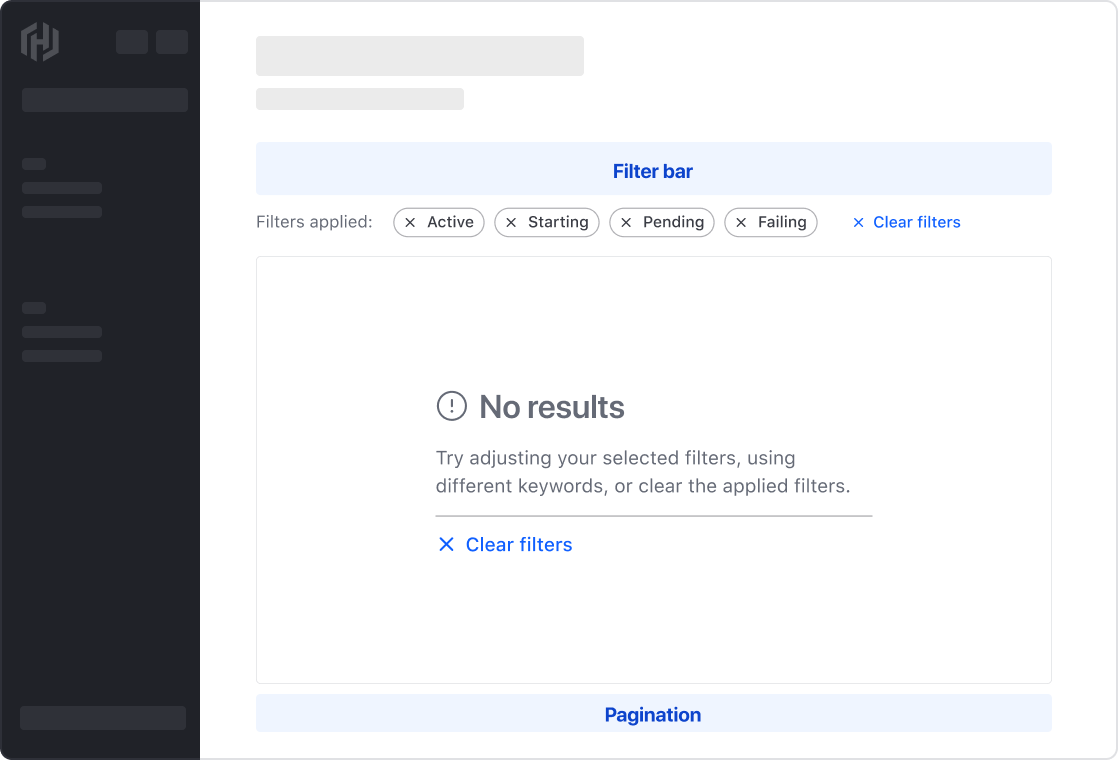
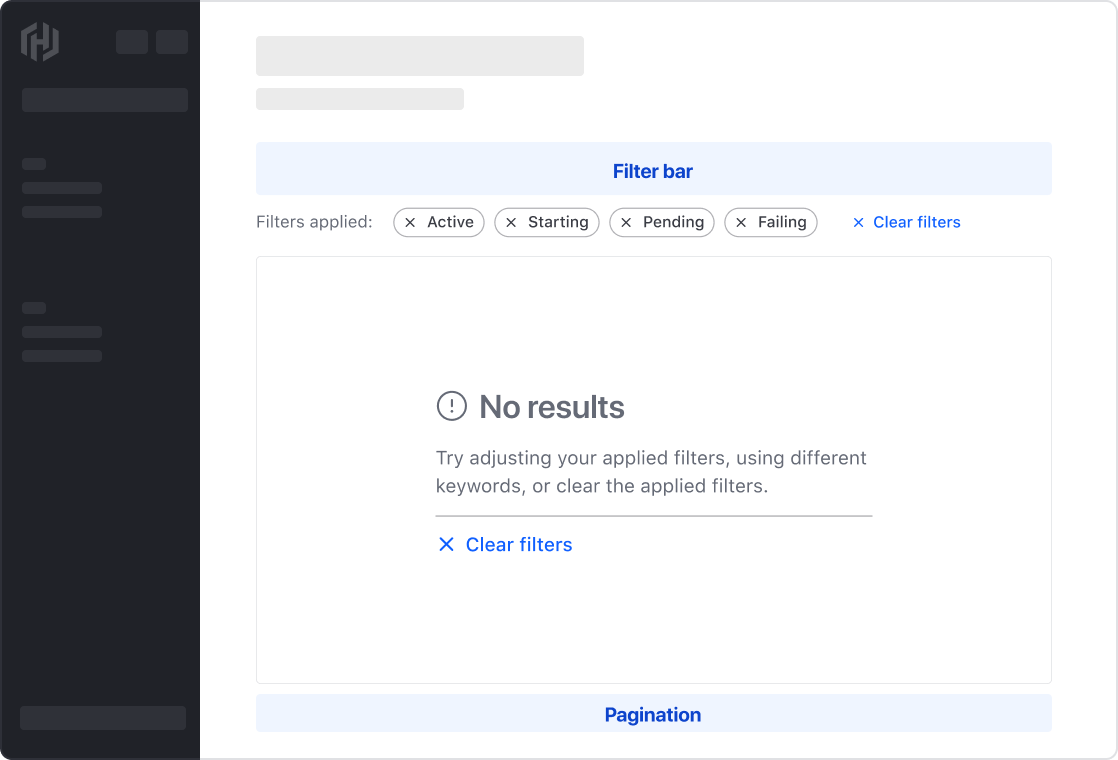
Cleaning up prose

Changed region(s): [[0.3953, 0.575, 0.7603, 0.6658]]

diff --git a/website/docs/patterns/filter-patterns/partials/guidelines/guidelines.md b/website/docs/patterns/filter-patterns/partials/guidelines/guidelines.md
@@ -1,6 +1,6 @@
 ## Structure
 
-A filtering pattern consists of a number of Helios components that work together functionally and enforce a consistent layout. These elements are variable depending on the data set's content and the context within the application. They can be combined in different ways to achieve an experience that benefits the end user.
+A filtering pattern consists of a number of Helios components that work together functionally and enforce a consistent layout. These elements are variable depending on the data set's content and the context within the application and can be combined in different ways to achieve an experience that benefits the end user.
 
 ### Data set
 
@@ -14,7 +14,7 @@ A data set is a broad term for an array of items, objects, or related informatio
 
 ![Non-tabular data set](/assets/patterns/filter-patterns/example-data-set-non-tabular-data.png =878x*)
 
-### Filter positioning
+### Filters
 
 Filters are responsible for the functional aspect of limiting a data set and for displaying the [parameters](/patterns/filter-patterns?tab=core%20concepts#parameter) which a user can filter upon. Filter positioning is largely dependent on the complexity of the data set and the scope to which the filters are being applied. For example, are the filters applied at the page level or only to the data set they are paired with?
 
@@ -42,7 +42,7 @@ If space permits, filters can be positioned vertically in a **sidebar** at the p
 
 ##### Page-level sidebar
 
-Page-level sidebars can be used for more complex data sets and if filtering content of the entire page is required and can be oriented on the left side of the viewport.
+Page-level sidebars can be used to filter a data set presented in a non-tabular fashion and if filtering the content of the entire page is required. A sidebar should be oriented on the left (start) side of the viewport.
 
 ![Vertical orientation of the filter bar](/assets/patterns/filter-patterns/layout-sidebar-left-page-level.png =559x*)
 
@@ -54,7 +54,7 @@ In-line sidebars can be used when the number of filterable parameters is minimal
 
 ### Applied filters
 
-Display **applied filters** and provide the user with a method to clear all filters at once. Applied filters should be represented using a [Tag](/components/tag) component, which allows for the individual dismissal of a filter value.
+Display the **applied filters** and provide the user with a method to clear all filters at once. Applied filters should be represented using a [Tag](/components/tag) component, which allows for the individual dismissal of a filter value.
 
 ![Applied filters](/assets/patterns/filter-patterns/applied-filters.png =547x*)
 
@@ -64,20 +64,17 @@ Applied filters should be positioned between the data set and the filter bar wit
 
 ![Applied filters with filter bar positioning](/assets/patterns/filter-patterns/applied-filters-positioning-filter-bar.png =559x*)
 
-In the case of a filter sidebar, the applied filters should be positioned directly above the dataset with a `16px` gap.
+If the filters are positioned in a page-level sidebar, the applied filters should be positioned directly above the dataset with a `16px` gap.
 
 ![Applied filters with filter sidebar](/assets/patterns/filter-patterns/applied-filters-positioning-sidebar.png =559x*)
 
-If the filters are positioned in a page-level sidebar, sometimes displaying the applied filters isn't necessary because they are implied in the sidebar. An action to clear all of the filters should be included within the sidebar itself.
-
-![Applied filters with clear all in the sidebar](/assets/patterns/filter-patterns/applied-filters-positioning-sidebar-clear-all.png =559x*)
 
 ### Global filter functions
 
 Depending on the fetching method and complexity of the data set, global filter functions can be used to expose methods that effect the entire data set. Global functions should be differentiated from the primary filters and aligned to the end of the data set. Examples include:
 
-- Manually refreshing the data set
-- Triggering a [Flyout](/components/flyout) with more complex filters
+- Manually refreshing the data set.
+- Triggering a [Flyout](/components/flyout) with more complex filters.
 
 #### Multiple global filter functions
 
@@ -112,7 +109,7 @@ Live filtering refers to updating the records within a data set immediately afte
 
 ### Per-filter
 
-Applying filters one at a time lets the user to "finalize" their decision before applying, avoiding the distraction of the data set constantly updating in the background. This method is useful when the user may want to select multiple values in a single dropdown.
+Applying filters one at a time lets the user to "finalize" their decision before applying, avoiding the distraction of the data set constantly updating in the background. This method is useful when the user may want to select multiple values in a single dropdown, but requires an extra step to apply the filters.
 
 <video width="100%" controls loop>
   <source
@@ -123,7 +120,7 @@ Applying filters one at a time lets the user to "finalize" their decision before
 
 ### Batch filtering
 
-Batch filtering supports the user making multiple selections across different parameters and only updating the results of the data set when the user interacts with a global "Apply" function. This method is useful when the data set is very large or when the filter parameters are complex.
+Batch filtering supports the user making multiple selections across different parameters and only updating the results of the data set when the user interacts with a global "apply" function. This method is useful when the data set is very large or when the filter parameters are complex.
 
 <video width="100%" controls loop>
   <source
@@ -134,13 +131,13 @@ Batch filtering supports the user making multiple selections across different pa
 
 ## Displaying selected filters
 
-Communicate that values corresponding with a filter parameter have been applied within the [Dropdown](/components/dropdown) by adding a `BadgeCount` within the filter. This can more easily communicate to the user what filters and values have been applied.
+Communicate that values corresponding with a filter parameter have been applied within the [Dropdown](/components/dropdown) by adding a `BadgeCount` within the filter.
 
 **Communicating that two values within a parameter have been applied in the Dropdown**
 
 ![Filter dropdown with count](/assets/patterns/filter-patterns/filter-bar-dropdown-count.png =661x*)
 
-This, when combined with the applied filters provides detailed snapshot of what specific filter values are applied to the data set and the relevant parameters that they correspond with.
+This, when combined with the applied filters provides a detailed snapshot of what specific filter values are applied to the data set and the relevant parameters that they correspond with.
 
 **Communicating that multiple filter parameters have been applied**
 
@@ -163,19 +160,19 @@ Use the Helios [Application State](/components/application-state) component to c
 
 ### Within applied filters
 
-If no filters have been applied, use a [Tooltip](/components/tooltip) coupled with the applied filters label to guide the user to the filter functions.
+If no filters have been applied, use a [Tooltip](/components/tooltip) coupled with the applied filters label to guide the user to the filter functions. Not only does this provide context and direct the user to the filters, but it prevents unncessary layout shift upon applying filters.
 
 ![Empty state in applied filters](/assets/patterns/filter-patterns/applied-filters-empty-state.png =450x*)
 
 ## Overflow
 
-Depending on the complexity of the data set, it may be necessary to account for the overflow of elements within the filter bar or in the applied tags.
+Depending on the complexity of the data set, it may be necessary to account for the overflow of elements within the filters.
 
 ### Filter bar overflow
 
 If the number of filterable parameters exceeds the available space, consider prioritizing the most commonly used filters in the filter bar and moving less important or more complex filters to a [Flyout](/components/flyout) that can be triggered via an action in the filter bar.
 
-**Hiding additional filters behind an action; in this scenario a secondary button**
+**Hiding additional filters behind an action**
 
 ![More filters trigger](/assets/patterns/filter-patterns/overflow-filter-bar.png =559x*)
 
